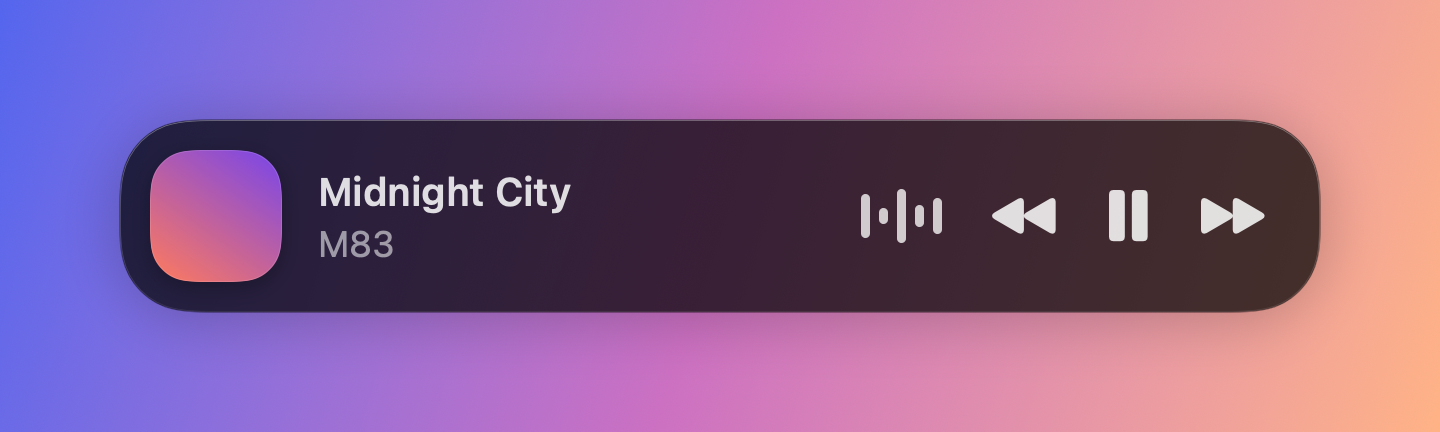
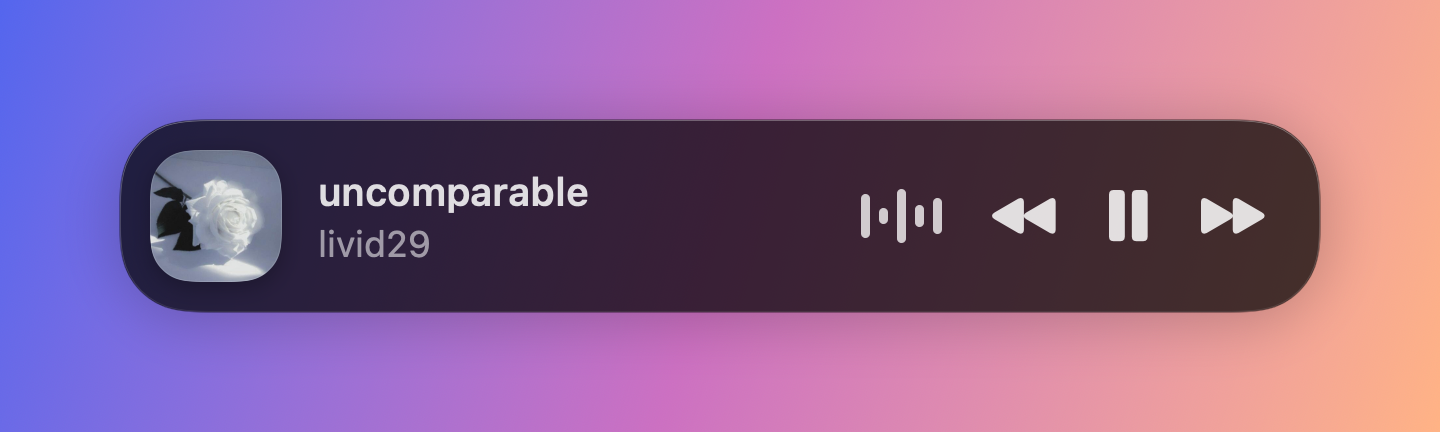
Show a real track in the README preview
Add a --live-snapshot mode that renders the dock with whatever Spotify
or Music is playing, and use it for the preview image.

Changed region(s): [[0.0938, 0.331, 0.4062, 0.662]]

diff --git a/Sources/DynamicDock/App/SnapshotTool.swift b/Sources/DynamicDock/App/SnapshotTool.swift
@@ -1,9 +1,12 @@
 import AppKit
 import SwiftUI
 
-/// Development aid: `DynamicDock --snapshot <path.png> [scale]` renders the
-/// dock to a PNG and exits, so the design can be inspected without the
-/// cursor being on the screen edge.
+/// Development aid: renders the dock to a PNG and exits, so the design can be
+/// inspected without the cursor being on the screen edge.
+///
+/// - `DynamicDock --snapshot <path.png> [scale]` uses sample track data.
+/// - `DynamicDock --live-snapshot <path.png> [scale]` uses whatever Spotify
+///   or Music is playing, including its real artwork.
 @MainActor
 enum SnapshotTool {
     /// Returns true when a snapshot was requested (and the app should exit).
@@ -15,11 +18,38 @@ enum SnapshotTool {
         let path = arguments[flag + 1]
         let scale = arguments.count > flag + 2 ? Double(arguments[flag + 2]) ?? 2 : 2
 
+        let media = MediaController()
+        if !arguments.contains("--empty") { media.loadPreviewData(longTitle: arguments.contains("--long")) }
+        render(media: media, to: path, scale: scale)
+        return true
+    }
+
+    /// Starts watching the players, waits for a track and its artwork, then
+    /// renders. Returns true when a live snapshot was requested.
+    static func runLiveIfRequested(media: MediaController) -> Bool {
+        let arguments = CommandLine.arguments
+        guard let flag = arguments.firstIndex(of: "--live-snapshot"), arguments.count > flag + 1 else {
+            return false
+        }
+        let path = arguments[flag + 1]
+        let scale = arguments.count > flag + 2 ? Double(arguments[flag + 2]) ?? 2 : 2
+
+        media.start()
+        Task {
+            // Allow time for the Automation prompt to be answered.
+            for _ in 0..<480 where media.artwork == nil {
+                try? await Task.sleep(for: .milliseconds(250))
+            }
+            render(media: media, to: path, scale: scale)
+            exit(media.artwork == nil ? 1 : 0)
+        }
+        return true
+    }
+
+    private static func render(media: MediaController, to path: String, scale: Double) {
         DesignPreview.isSnapshot = true
         let visibility = DockVisibility()
         visibility.isShown = true
-        let media = MediaController()
-        if !arguments.contains("--empty") { media.loadPreviewData(longTitle: arguments.contains("--long")) }
         let content = MusicDockView(visibility: visibility, media: media)
             .frame(width: DesignTokens.panelSize.width, height: DesignTokens.panelSize.height)
             .environment(\.displayScale, scale)
@@ -42,9 +72,8 @@ enum SnapshotTool {
               let data = NSBitmapImageRep(cgImage: image).representation(using: .png, properties: [:])
         else {
             FileHandle.standardError.write(Data("snapshot failed\n".utf8))
-            return true
+            return
         }
         try? data.write(to: URL(fileURLWithPath: path))
-        return true
     }
 }

diff --git a/Sources/DynamicDock/App/AppDelegate.swift b/Sources/DynamicDock/App/AppDelegate.swift
@@ -17,6 +17,10 @@ final class AppDelegate: NSObject, NSApplicationDelegate {
         // outside the bundle (e.g. `swift run`).
         NSApp.setActivationPolicy(.accessory)
 
+        if SnapshotTool.runLiveIfRequested(media: media) {
+            return
+        }
+
         // Development aid: open only the settings window, so it can be
         // checked without the menu bar, the dock or any player access.
         if CommandLine.arguments.contains("--show-settings") {
